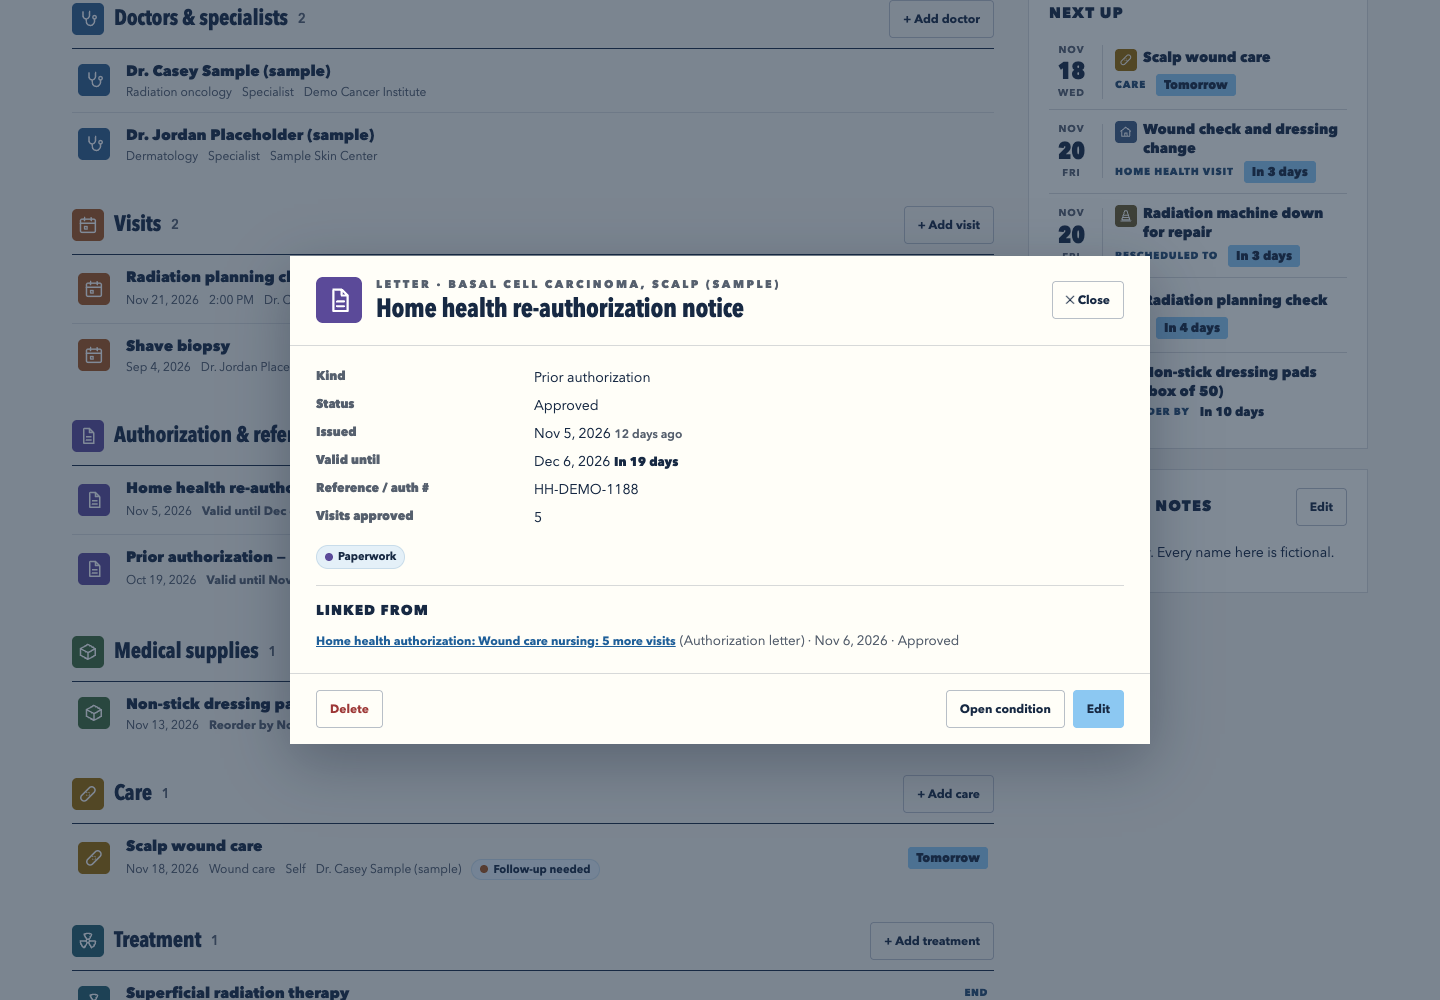
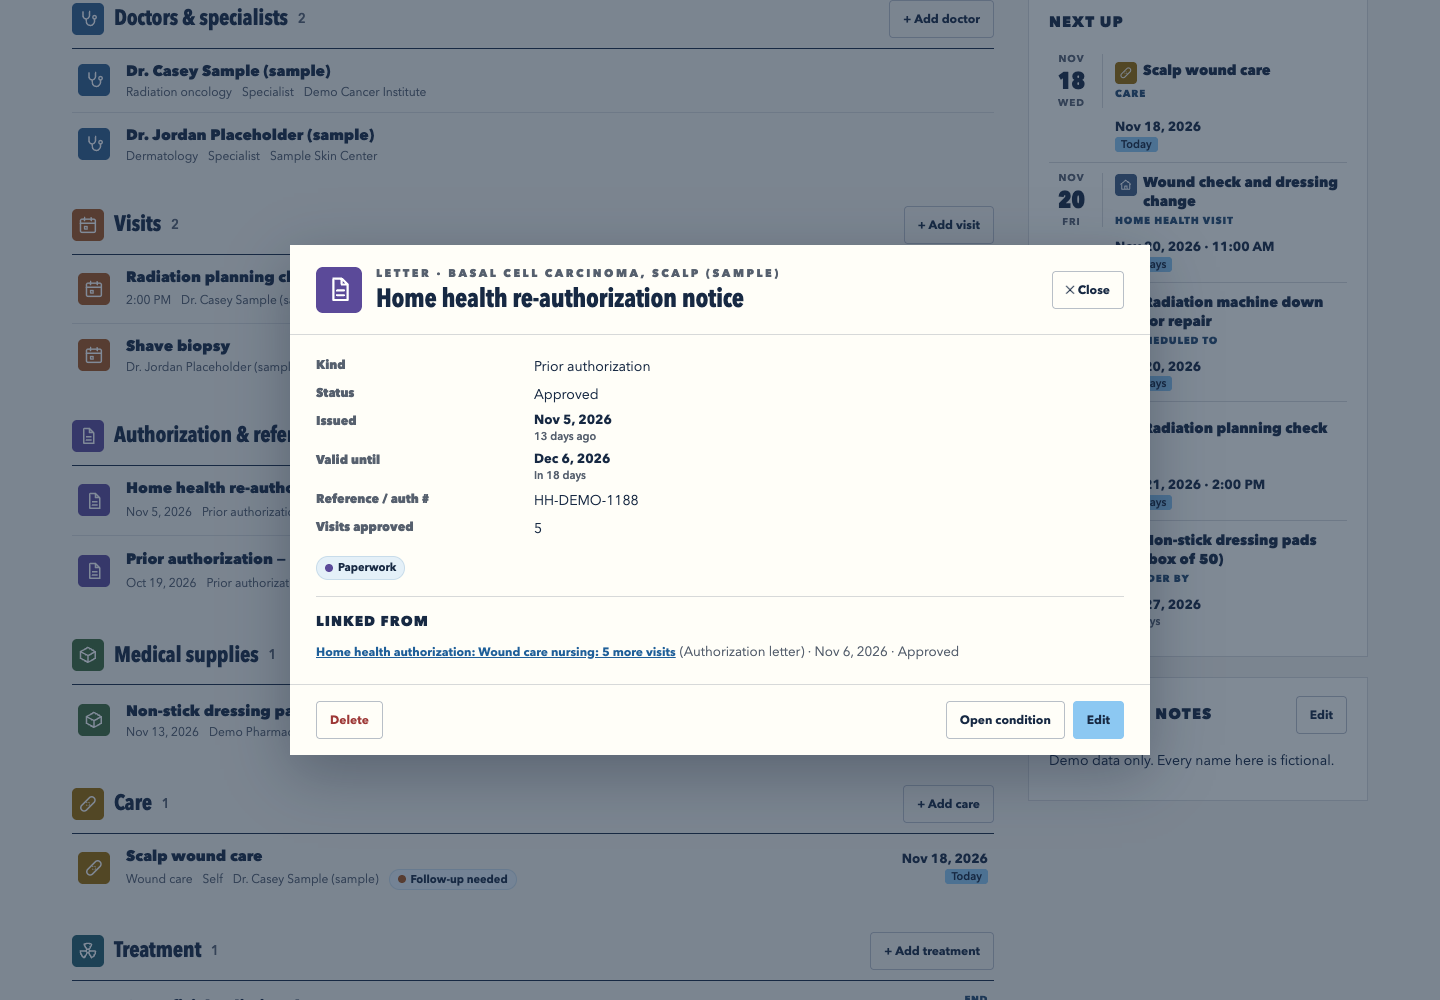
Dates: show the absolute date (and time) first with the relative label below it in a <time datetime>; gate + screenshots

diff --git a/js/ui.js b/js/ui.js
@@ -16,10 +16,23 @@ export function tagChip(tag) {
 export function tagsFor(entry) {
   return (entry.tagIds || []).map(id => store.doc.tags.find(t => t.id === id)).filter(Boolean);
 }
-export function relLabel(date) {
-  const n = S.daysBetween(S.today(), date);
-  return `<span class="rel ${n < 0 ? 'past' : n <= 7 ? 'soon' : ''}">${esc(S.relativeDay(date))}</span>`;
+/** "12:30 PM" / "4:15 pm" / "16:15" -> "16:15" for a datetime attribute ('' when unreadable). */
+function isoTime(t) {
+  const m = /^\s*(\d{1,2})(?::(\d{2}))?\s*([ap])\.?m?\.?\s*$/i.exec(t || '') || /^\s*(\d{1,2}):(\d{2})\s*$/.exec(t || '');
+  if (!m) return '';
+  let h = +m[1]; const min = m[2] || '00', ap = (m[3] || '').toLowerCase();
+  if (ap === 'p' && h < 12) h += 12; if (ap === 'a' && h === 12) h = 0;
+  return h < 24 && +min < 60 ? `${String(h).padStart(2, '0')}:${min}` : '';
 }
+/** A date as "Sep 11, 2026" (plus the time when there is one) with "68 days ago" / "In 14 days" /
+ *  "Today" in smaller text below it, in one <time datetime> (t36u). */
+export function relLabel(date, { time = '' } = {}) {
+  if (!/^\d{4}-\d{2}-\d{2}$/.test(date || '')) return '';
+  const n = S.daysBetween(S.today(), date), t = isoTime(time);
+  return `<time class="when" datetime="${esc(date)}${t ? `T${t}` : ''}"><span class="when-date">${esc(S.formatDate(date))}${time ? ` · ${esc(time)}` : ''}</span><span class="rel ${n < 0 ? 'past' : n <= 7 ? 'soon' : ''}">${esc(S.relativeDay(date))}</span></time>`;
+}
+/** The time of day for an event, when its entry has a "time" field and the event is the main date. */
+export function eventTime(entry, ev) { return ev?.primary !== false && typeof entry?.values?.time === 'string' ? entry.values.time.trim() : ''; }
 export function dateBlock(date) {
   const d = new Date(`${date}T12:00:00`);
   return `<span class="date-block" aria-hidden="true"><span>${d.toLocaleDateString(undefined, { month: 'short' })}</span><b>${d.getDate()}</b><span>${d.toLocaleDateString(undefined, { weekday: 'short' })}</span></span>`;
@@ -48,16 +61,16 @@ export function entrySummary(entry, type) {
 export function eventRow(ev, { showCondition = true, compact = false } = {}) {
   const doc = store.doc, type = S.typeById(doc, ev.typeId), entry = S.entryById(doc, ev.entryId);
   const label = `${ev.label}: ${ev.title}, ${S.formatDate(ev.date)}`;
-  if (compact) return `<li><button type="button" class="event compact" data-action="open-entry" data-id="${esc(ev.entryId)}" aria-label="${esc(label)}">${dateBlock(ev.date)}<span class="event-main"><strong>${typeBadge(type, 'sm')} ${esc(ev.title)}</strong><span class="meta"><span class="event-field">${esc(ev.primary ? type.singular : ev.label)}</span>${relLabel(ev.date)}</span></span></button></li>`;
-  return `<li><button type="button" class="event" data-action="open-entry" data-id="${esc(ev.entryId)}" aria-label="${esc(label)}">${dateBlock(ev.date)}${typeBadge(type)}<span class="event-main"><strong>${esc(ev.title)}</strong><span class="meta"><span class="event-field">${esc(ev.primary ? type.singular : ev.label)}</span>${showCondition ? `<span>${esc(conditionName(ev.conditionId))}</span>` : ''}${hhChip(entry)}${entrySummary(entry, type).slice(0, 2).map(b => `<span>${esc(b)}</span>`).join('')}${tagsFor(entry).map(tagChip).join('')}</span></span>${relLabel(ev.date)}</button></li>`;
+  if (compact) return `<li><button type="button" class="event compact" data-action="open-entry" data-id="${esc(ev.entryId)}" aria-label="${esc(label)}">${dateBlock(ev.date)}<span class="event-main"><strong>${typeBadge(type, 'sm')} ${esc(ev.title)}</strong><span class="meta"><span class="event-field">${esc(ev.primary ? type.singular : ev.label)}</span></span></span>${relLabel(ev.date, { time: eventTime(entry, ev) })}</button></li>`;
+  return `<li><button type="button" class="event" data-action="open-entry" data-id="${esc(ev.entryId)}" aria-label="${esc(label)}">${dateBlock(ev.date)}${typeBadge(type)}<span class="event-main"><strong>${esc(ev.title)}</strong><span class="meta"><span class="event-field">${esc(ev.primary ? type.singular : ev.label)}</span>${showCondition ? `<span>${esc(conditionName(ev.conditionId))}</span>` : ''}${hhChip(entry)}${entrySummary(entry, type).slice(0, 2).map(b => `<span>${esc(b)}</span>`).join('')}${tagsFor(entry).map(tagChip).join('')}</span></span>${relLabel(ev.date, { time: eventTime(entry, ev) })}</button></li>`;
 }
 export function entryRow(entry) {
   const doc = store.doc, type = S.typeById(doc, entry.typeId), date = S.primaryDate(type, entry);
   const docs = (entry.attachments || []).length;
   // The soonest future date (e.g. "Valid until", "Deadline") says more than a past primary date.
   const nextEv = S.entryEvents(doc, entry).filter(e => e.date >= S.today()).sort((a, b) => a.date.localeCompare(b.date))[0];
-  const rel = nextEv ? `<span class="rel-wrap">${nextEv.primary ? '' : `<small>${esc(nextEv.label)}</small>`}${relLabel(nextEv.date)}</span>` : date ? relLabel(date) : '';
-  return `<li><button type="button" class="entry-row" data-action="open-entry" data-id="${esc(entry.id)}">${typeBadge(type)}<span class="entry-main"><strong>${esc(entry.title)}</strong><span class="meta">${date ? `<span>${esc(S.formatDate(date))}</span>` : ''}${nextEv && !nextEv.primary ? `<span><b>${esc(nextEv.label)} ${esc(S.formatDate(nextEv.date, { month: 'short', day: 'numeric' }))}</b></span>` : ''}${hhChip(entry)}${entrySummary(entry, type).map(b => `<span>${esc(b)}</span>`).join('')}${docs ? `<span>${plural(docs, 'document')}</span>` : ''}${tagsFor(entry).map(tagChip).join('')}</span></span>${rel}</button></li>`;
+  const rel = nextEv ? `<span class="rel-wrap">${nextEv.primary ? '' : `<small>${esc(nextEv.label)}</small>`}${relLabel(nextEv.date, { time: eventTime(entry, nextEv) })}</span>` : date ? relLabel(date, { time: eventTime(entry, { primary: true }) }) : '';
+  return `<li><button type="button" class="entry-row" data-action="open-entry" data-id="${esc(entry.id)}">${typeBadge(type)}<span class="entry-main"><strong>${esc(entry.title)}</strong><span class="meta">${date && nextEv && !nextEv.primary ? `<span>${esc(S.formatDate(date))}</span>` : ''}${hhChip(entry)}${entrySummary(entry, type).map(b => `<span>${esc(b)}</span>`).join('')}${docs ? `<span>${plural(docs, 'document')}</span>` : ''}${tagsFor(entry).map(tagChip).join('')}</span></span>${rel}</button></li>`;
 }
 export function typeChip(type, count, pressed, action) {
   return `<button type="button" class="chip" data-action="${action}" data-id="${esc(type.id)}" aria-pressed="${pressed}">${typeBadge(type, 'sm')}${esc(type.name)}<span class="count">${count}</span></button>`;
@@ -84,7 +97,7 @@ export function hhPanel(entry, { compact = false, showCondition = true } = {}) {
   return `<div class="hh-panel state-${u.state}${compact ? ' compact' : ''}">${title}
     <p class="hh-count"><b>${u.left}</b> of ${u.authorized} authorized visit${u.authorized === 1 ? '' : 's'} left</p>
     <div class="hh-bar" role="img" aria-label="${u.used} of ${u.authorized} authorized visits used"><span style="width:${pct}%"></span></div>
-    <p class="fine hh-used">${plural(u.used, 'completed visit')} counted${entry.values?.end ? ` · ends ${esc(S.formatDate(entry.values.end, { month: 'short', day: 'numeric' }))}` : ''}</p>
+    <p class="fine hh-used">${plural(u.used, 'completed visit')} counted${entry.values?.end ? ` · ends ${relLabel(entry.values.end)}` : ''}</p>
     ${msg ? `<p class="hh-alert" role="${u.attention ? 'alert' : 'status'}">${u.attention ? WARN : ''}${esc(msg)}</p>` : ''}
     ${!compact && missed.length ? `<p class="fine hh-missed"><b>Not counted:</b> ${missed.map(([o, n]) => `${esc(o)} (${n})`).join(', ')}</p>` : ''}</div>`;
 }

diff --git a/js/app.js b/js/app.js
@@ -8,7 +8,7 @@ import { noteHTML } from './richText.js';
 import { imageURL } from './images.js';
 import { DEMO_USERNAME, DEMO_PASSWORD } from './demoAccount.js';
 import { store, save, notice, remove, put } from './store.js';
-import { esc, condNameHTML, condOptionAttrs, plural, searchBox, eventRow, entryRow, typeChip, tagFilterChip, tagChip, closeDialog, hhPanel } from './ui.js';
+import { esc, condNameHTML, condOptionAttrs, relLabel, eventTime, plural, searchBox, eventRow, entryRow, typeChip, tagFilterChip, tagChip, closeDialog, hhPanel } from './ui.js';
 import { openEntryForm, openEntryDetail, deleteEntry, openConditionForm, openViewer, openQuickUpload, attachmentsHTML } from './forms.js';
 import { renderTypes, openTypeEditor } from './typesPage.js';
 import * as offline from './offline.js';
@@ -65,7 +65,7 @@ function conditionCard(c) {
   const stats = S.conditionStats(store.doc, c.id), next = stats.next;
   return `<article class="condition-card" data-open-condition="${esc(c.id)}" style="--cond-color:${esc(c.color)}"><div><span class="badge ${esc(c.status)}">${esc(c.status)}</span>${c.diagnosedOn ? ` <small class="muted">since ${esc(S.formatDate(c.diagnosedOn, { month: 'short', year: 'numeric' }))}</small>` : ''}</div><h2><a href="#/c/${esc(c.id)}">${condNameHTML(c)}</a></h2>${c.summary ? `<p class="summary">${esc(c.summary)}</p>` : ''}
     <ul class="type-counts" aria-label="Records">${stats.counts.map(x => `<li>${typeBadge(x.type, 'sm')}<span>${x.count} ${esc(x.count === 1 ? x.type.singular : x.type.name)}</span></li>`).join('') || '<li class="muted">No entries yet</li>'}</ul>
-    <div class="card-next"><strong>Next up</strong>${next ? `${esc(next.primary ? S.typeById(store.doc, next.typeId).singular : next.label)}: ${esc(next.title)} · <b>${esc(S.formatDate(next.date, { month: 'short', day: 'numeric' }))}</b> (${esc(S.relativeDay(next.date))})` : '<span class="muted">Nothing scheduled</span>'}</div></article>`;
+    <div class="card-next"><strong>Next up</strong>${next ? `${esc(next.primary ? S.typeById(store.doc, next.typeId).singular : next.label)}: ${esc(next.title)} ${relLabel(next.date, { time: eventTime((store.doc.entries || []).find(e => e.id === next.entryId), next) })}` : '<span class="muted">Nothing scheduled</span>'}</div></article>`;
 }
 function renderOverview() {
   const doc = store.doc, conds = liveConditions(), q = ui.overviewQuery;
@@ -202,7 +202,7 @@ function renderDocuments() {
   for (const k of d.kinds) if (!kinds.some(x => x.kind === k)) d.kinds.delete(k);
   for (const l of d.labelIds) if (!labels.some(x => x.label.id === l)) d.labelIds.delete(l);
   const shown = D.filterDocuments(all, { kinds: [...d.kinds], labelIds: [...d.labelIds], conditionId: d.conditionId, query: d.query });
-  const card = x => `<li class="doc-card" data-doc-kind="${x.kind}" data-doc-label="${esc(x.labelId)}"><button type="button" class="preview" data-action="view-file" data-id="${esc(x.file.id)}" data-name="${esc(x.file.name)}" data-kind="${x.kind}" aria-label="View ${esc(x.file.name)}">${x.kind === 'pdf' ? '<span class="pdf-tile" aria-hidden="true">PDF</span>' : `<img src="${esc(imageURL(x.file.id))}" alt="" loading="lazy">`}</button><div class="info"><strong>${esc(x.file.name)}</strong><span><span class="badge">${esc(D.labelById(doc, x.labelId).label)}</span> <small class="muted">${D.KIND_NAMES[x.kind]}${x.file.bytes ? ` · ${D.formatBytes(x.file.bytes)}` : ''}</small></span><span class="owner">${x.owner.kind === 'entry' ? `<button type="button" class="link" data-action="open-entry" data-id="${esc(x.owner.id)}">${esc(S.typeById(doc, x.owner.typeId)?.singular || 'Entry')}: ${esc(x.owner.title)}</button>` : `<a href="#/c/${esc(x.owner.id)}">Condition record</a>`}<br>${esc(x.conditionName)}${x.file.addedAt ? ` · ${esc(S.formatDate(String(x.file.addedAt).slice(0, 10)))}` : ''}</span></div></li>`;
+  const card = x => `<li class="doc-card" data-doc-kind="${x.kind}" data-doc-label="${esc(x.labelId)}"><button type="button" class="preview" data-action="view-file" data-id="${esc(x.file.id)}" data-name="${esc(x.file.name)}" data-kind="${x.kind}" aria-label="View ${esc(x.file.name)}">${x.kind === 'pdf' ? '<span class="pdf-tile" aria-hidden="true">PDF</span>' : `<img src="${esc(imageURL(x.file.id))}" alt="" loading="lazy">`}</button><div class="info"><strong>${esc(x.file.name)}</strong><span><span class="badge">${esc(D.labelById(doc, x.labelId).label)}</span> <small class="muted">${D.KIND_NAMES[x.kind]}${x.file.bytes ? ` · ${D.formatBytes(x.file.bytes)}` : ''}</small></span><span class="owner">${x.owner.kind === 'entry' ? `<button type="button" class="link" data-action="open-entry" data-id="${esc(x.owner.id)}">${esc(S.typeById(doc, x.owner.typeId)?.singular || 'Entry')}: ${esc(x.owner.title)}</button>` : `<a href="#/c/${esc(x.owner.id)}">Condition record</a>`}<br>${esc(x.conditionName)}${x.file.addedAt ? ` · Added ${relLabel(String(x.file.addedAt).slice(0, 10))}` : ''}</span></div></li>`;
   const groups = D.groupDocuments(doc, shown, d.group);
   const filtered = d.kinds.size || d.labelIds.size || d.query.trim();
   app.innerHTML = `<div class="page-heading"><div><p class="eyebrow">Lab results, notes, letters, photos</p><h1>Documents</h1><p class="muted">Every PDF and image you've attached, across all conditions. Filter by file type and by label, then open one to view it or jump to the record it belongs to.</p></div><div class="actions"><button class="primary" type="button" data-action="quick-upload">+ Upload documents</button></div></div>

diff --git a/styles.css b/styles.css
@@ -244,9 +244,9 @@ dl.values dd{margin:0;font-size:14px;white-space:pre-wrap;overflow-wrap:anywhere
   #account-actions{margin-left:auto}
   .field-grid{grid-template-columns:1fr}
   .event{grid-template-columns:52px 28px minmax(0,1fr);gap:10px}
-  .event .rel{grid-column:3;justify-self:start}
+  .event .when{grid-column:3;justify-self:start;justify-items:start}
   .entry-row{grid-template-columns:28px minmax(0,1fr)}
-  .entry-row .rel{grid-column:2;justify-self:start}
+  .entry-row .when{grid-column:2;justify-self:start;justify-items:start}.entry-row .rel-wrap{grid-column:2;justify-self:start;justify-items:start}
   .doc-item{grid-template-columns:52px minmax(0,1fr)}
   .doc-item>*:nth-child(n+3){grid-column:1/-1}
   dl.values{grid-template-columns:1fr}
@@ -331,7 +331,7 @@ body.offline-on>header{border-bottom-color:#f0b44c}
 .dis-row.dis-out .event:hover,.dis-row.dis-out .event:focus-visible{opacity:.75}
 .dis-mark{position:absolute;right:12px;top:50%;transform:translateY(-50%);font-size:11px;font-weight:800;padding:3px 9px;border-radius:999px;border:1px solid var(--line);background:var(--paper);color:var(--ink)}
 .dis-row.dis-in .dis-mark{background:#8a4b00;border-color:#8a4b00;color:#fff}
-.dis-row .rel{display:none}
+.dis-row .when{display:none}
 @media (max-width:640px){.dis-row .event{padding-right:12px;padding-bottom:34px}.dis-mark{top:auto;bottom:8px;transform:none;left:auto}}
 
 /* @mentions (t18u): chips in notes and the caret popover */
@@ -393,3 +393,11 @@ header.offline-collapsed .more-offline{display:block;border-bottom:1px solid var
 .cond-desc-mark{font-size:.6em;vertical-align:super;margin-left:1px;opacity:.7}
 .cond-desc-field{background:var(--surface-2,#f6f7f9);border-left:4px solid var(--accent,#3b6ea5);padding:10px 12px;border-radius:8px}
 .cond-desc-field textarea{width:100%;font-size:1.02em}
+
+/* Dates (t36u): the date first, then how long ago / until in smaller muted text below it */
+.when{display:inline-grid;justify-items:end;gap:1px;line-height:1.2;text-align:right;white-space:nowrap}
+.when-date{font-size:13px;font-weight:700;color:var(--ink)}
+.when .rel{font-size:11px;font-weight:600;color:var(--muted)}
+.when .rel.soon{color:var(--ink);background:var(--accent);padding:1px 6px;border-radius:3px;justify-self:inherit}
+.card-next .when,.hh-used .when,.doc-card .when,dl.values .when{justify-items:start;text-align:left;vertical-align:top}
+.event.compact .when{grid-column:2;justify-self:start;justify-items:start;text-align:left;white-space:normal}

diff --git a/js/forms.js b/js/forms.js
@@ -6,7 +6,7 @@ import { typeBadge } from './icons.js';
 import { richEditor, bindEditor, editorValue, noteHTML } from './richText.js';
 import { uploadFile, documentFiles, fileURL, imageURL, DOCUMENT_ACCEPT } from './images.js';
 import { store, save, put, remove, notice } from './store.js';
-import { esc, condOptionAttrs, openDialog, closeDialog, dialogHead, tagChip, tagsFor, conditionName, plural, relLabel, hhPanel } from './ui.js';
+import { esc, condOptionAttrs, openDialog, closeDialog, dialogHead, tagChip, tagsFor, conditionName, plural, relLabel, eventTime, hhPanel } from './ui.js';
 
 // ---- tag picker: chips + type-ahead; Enter or "+ Create" makes a tag on the fly ----------
 export function tagPickerHTML(id) {
@@ -201,7 +201,7 @@ export function openEntryDetail(id) {
     const v = entry.values?.[f.id];
     if (v === undefined || v === '' || v === null) return '';
     const shown = f.kind === 'link' && S.entryById(doc, v) ? `<button type="button" class="link" data-action="open-entry" data-id="${esc(v)}">${esc(S.displayValue(doc, f, v))}</button>` : esc(S.displayValue(doc, f, v));
-    return `<dt>${esc(f.label)}</dt><dd>${shown}${f.kind === 'date' ? ` ${relLabel(v)}` : ''}</dd>`;
+    return `<dt>${esc(f.label)}</dt><dd>${f.kind === 'date' && relLabel(v) ? relLabel(v, { time: f.id === type.primaryDateField ? eventTime(entry, { primary: true }) : '' }) : shown}</dd>`;
   }).join('');
   const retired = S.retiredValues(type, entry), backs = S.backlinks(doc, entry.id);
   const html = `${dialogHead(entry.title, `${type.singular} · ${conditionName(entry.conditionId)}`, typeBadge(type, 'lg'))}<div class="dialog-body">

diff --git a/tests/browser.test.py b/tests/browser.test.py
@@ -323,6 +323,21 @@ try:
             go(mobile, '#/'); mobile.screenshot(path=SCREENS / 'mobile-overview.png', full_page=True)
             go(mobile, '#/c/cond-knee'); mobile.screenshot(path=SCREENS / 'mobile-condition.png', full_page=True)
             ok(True, f'screenshots written to {SCREENS.relative_to(ROOT)}')
+        # ---- Dates (t36u): the absolute date first, the relative label below it, in one <time datetime>
+        go(demo, '#/timeline'); demo.wait_for_selector('.event time.when')
+        w = demo.evaluate("""() => [...document.querySelectorAll('.event time.when')].map(t => {
+            const d = t.querySelector('.when-date'), r = t.querySelector('.rel');
+            return { dt: t.getAttribute('datetime'), d: d && d.textContent, r: r && r.textContent,
+                     below: !!(d && r) && r.getBoundingClientRect().top >= d.getBoundingClientRect().bottom - 1,
+                     smaller: !!(d && r) && parseFloat(getComputedStyle(r).fontSize) < parseFloat(getComputedStyle(d).fontSize) }; })""")
+        ok(len(w) > 0 and all(x['dt'] and __import__('re').match(r'^\d{4}-\d{2}-\d{2}(T\d{2}:\d{2})?$', x['dt']) for x in w), 'timeline dates are <time datetime="YYYY-MM-DD[THH:MM]">')
+        ok(all(__import__('re').match(r'^[A-Z][a-z]{2} \d{1,2}, \d{4}', x['d'] or '') for x in w), 'absolute date shown first, like "Sep 11, 2026"')
+        ok(all(__import__('re').match(r'^(Today|Tomorrow|Yesterday|In \d+ days?|\d+ days? ago)$', x['r'] or '') for x in w), 'relative label ("68 days ago" / "In 14 days" / "Today") under each date')
+        ok(all(x['below'] and x['smaller'] for x in w), 'relative label sits below the date in smaller text')
+        go(demo, '#/'); demo.wait_for_selector('.card-next')
+        ok(demo.locator('.card-next time.when .when-date').count() >= 1, 'condition card "Next up" shows the date, then the relative label')
+        go(demo, '#/documents'); demo.wait_for_selector('.doc-card')
+        ok(demo.locator('.doc-card time.when').count() == demo.locator('.doc-card').count(), 'each document shows its added date with the relative label')
         # ---- Saved views (t27u): save the current Timeline filters, restore them after a reload, delete
         go(demo, '#/timeline'); demo.wait_for_selector('#tl-tags')
         ok(demo.locator('[data-action=tl-view-save]').count() == 0, 'no "Save current view" until a filter is on')

diff --git a/README.md b/README.md
@@ -229,3 +229,7 @@ The browser test needs Python Playwright with Chromium. `--screens` uses install
 - `docs/`: epics, milestones, prompts, implementation notes, and the gauntlet contract and state.
 
 Appts is a personal record-keeper, not a medical device or an official health record. Demo data is fictional.
+
+## Dates
+
+Every date that has a relative label (timeline, Next up, documents, condition cards, home health) shows the date first, e.g. "Sep 11, 2026 · 11:00 AM", with "68 days ago" / "In 14 days" / "Today" in smaller muted text below it, in one `<time datetime>` element.
